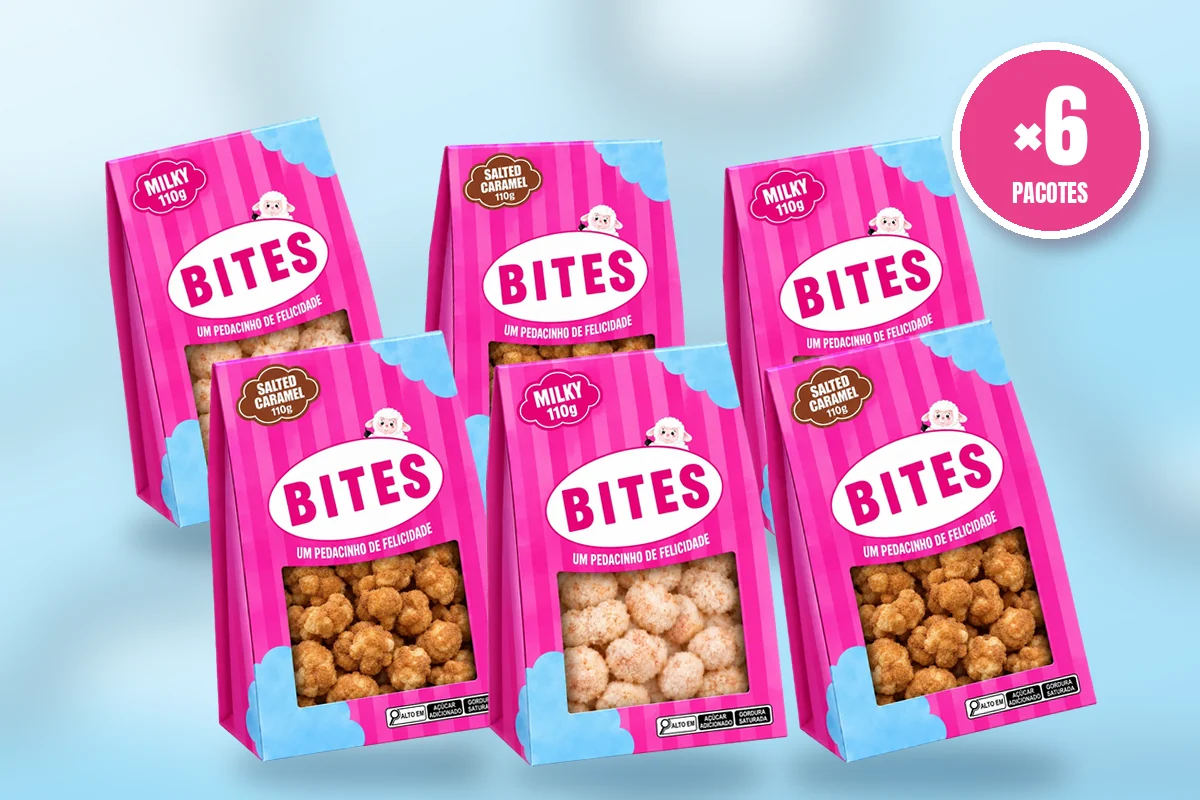
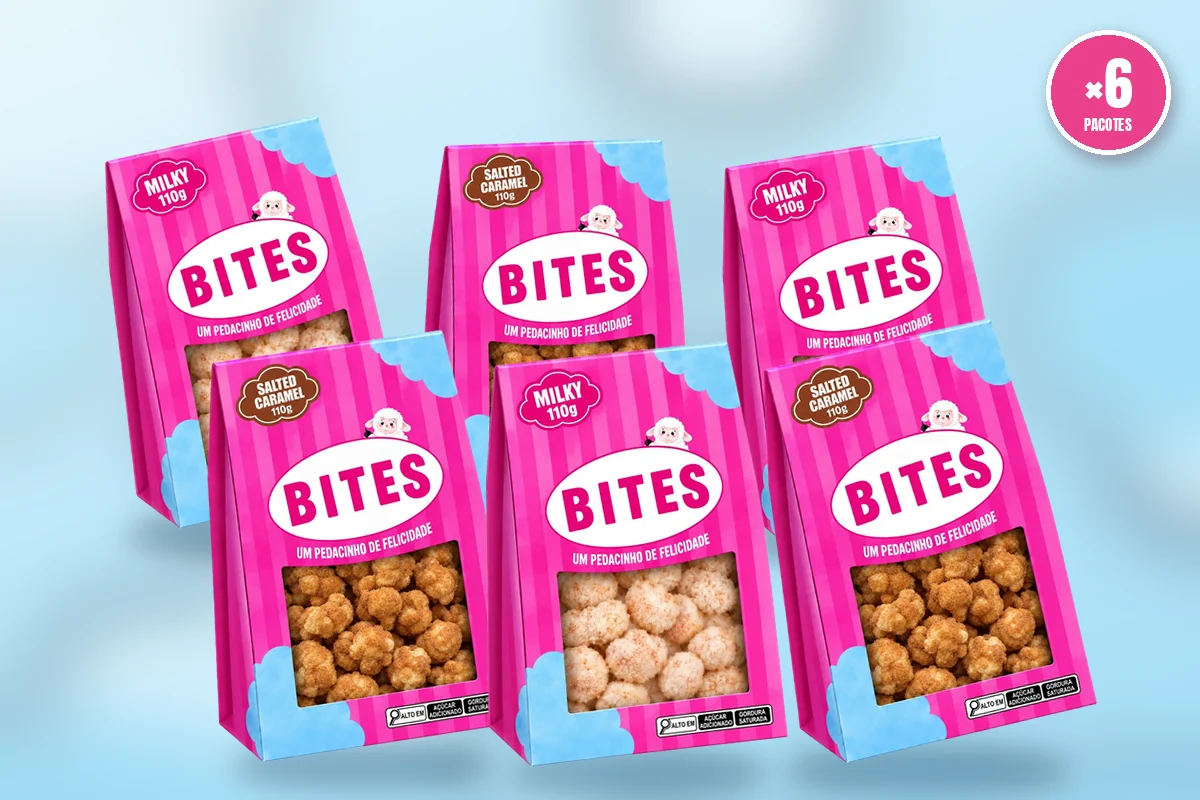
Combos: selo menor e os 10 pacotes do Pack centralizados
Claude-Session: https://claude.ai/code/session_01YLmJ7uevQKNQueWA5LqTBy

Changed region(s): [[0.7708, 0.0312, 0.9867, 0.3125]]

diff --git a/site.js b/site.js
@@ -116,11 +116,11 @@ const PONTOS = [
 // monta: quantos pacotes a pessoa escolhe na página do kit (sabores de SABORES_KIT)
 // foto: imagem do card (céu com nuvens, igual aos combos) · mini: pacote de frente pras miniaturas
 const PRODUTOS = [
-  {id:"milky", texto:["O <b>Milky</b> é a queridinha da casa.","Pipoca crocante coberta com <b>chocolate branco</b> e finalizada com <b>leite em pó</b>. Doce na medida e crocante até o último pedacinho.","Pacote de <b>110g</b>. Difícil é comer um só."], nome:"Milky", vem:"1× 110g", desc:"Pipoca crocante coberta com chocolate branco e leite em pó. A queridinha da casa.", preco:14.90, foto:"img/combos/milky.webp", mini:"img/giro/milky-frente.webp", reserva:"img/milky.jpg", giro:"milky", selo:"Mais pedido", camadas:["Pipoca crocante","Chocolate branco","Leite em pó"]},
-  {id:"caramel", texto:["O <b>Salted Caramel</b> é pra quem gosta do doce com personalidade.","Pipoca crocante coberta com <b>caramelo</b> e uma <b>pitada de sal</b> que deixa tudo mais viciante.","Pacote de <b>110g</b>. Doce, salgadinho e impossível de parar."], nome:"Salted Caramel", vem:"1× 110g", desc:"Caramelo com um toque de sal. Doce, crocante e difícil de parar.", preco:14.90, foto:"img/combos/caramel.webp", mini:"img/giro/caramel-frente.webp", reserva:"img/caramel.jpg", giro:"caramel", camadas:["Pipoca crocante","Caramelo","Pitada de sal"]},
-  {id:"duo", monta:2, texto:["O <b>BITES Duo</b> é o jeito mais fácil de começar.","São <b>2 pacotes de 110g</b> pra você montar do seu jeito: um de cada ou dois do seu favorito, entre <b>Milky</b> e <b>Salted Caramel</b>.","Monte o seu e descubra o seu vício."], nome:"BITES Duo", vem:"2× 110g", desc:"2 pacotes à sua escolha. Um de cada ou dois do favorito.", preco:27.90, de:29.80, pacotes:2, foto:"img/combos/duo.webp", camadas:["2 pacotes de 110g"]},
-  {id:"crew", monta:6, texto:["O <b>BITES Crew</b> é pra dividir com a galera… ou guardar tudo pra você.","São <b>6 pacotes de 110g</b> com os sabores que você escolher: <b>Milky</b> e <b>Salted Caramel</b>, na proporção que quiser.","Perfeito pra filme, estudo em grupo ou aquele rolê em casa."], nome:"BITES Crew", vem:"6× 110g", desc:"6 pacotes à sua escolha. Pra dividir com a galera.", preco:79.90, de:89.40, pacotes:6, foto:"img/combos/crew.webp", selo:"Mais vendido", camadas:["6 pacotes de 110g"]},
-  {id:"pack", monta:10, texto:["O <b>BITES Pack</b> é o estoque completo de quem já é viciado.","São <b>10 pacotes de 110g</b> pra montar do seu jeito, entre <b>Milky</b> e <b>Salted Caramel</b>.","O melhor preço por pacote. Pra nunca ficar sem."], nome:"BITES Pack", vem:"10× 110g", desc:"10 pacotes à sua escolha. O melhor preço por pacote.", preco:124.90, de:149.00, pacotes:10, foto:"img/combos/pack.webp", selo:"Melhor preço", camadas:["10 pacotes de 110g"]}
+  {id:"milky", texto:["O <b>Milky</b> é a queridinha da casa.","Pipoca crocante coberta com <b>chocolate branco</b> e finalizada com <b>leite em pó</b>. Doce na medida e crocante até o último pedacinho.","Pacote de <b>110g</b>. Difícil é comer um só."], nome:"Milky", vem:"1× 110g", desc:"Pipoca crocante coberta com chocolate branco e leite em pó. A queridinha da casa.", preco:14.90, foto:"img/combos/milky.webp?v=1790284624", mini:"img/giro/milky-frente.webp", reserva:"img/milky.jpg", giro:"milky", selo:"Mais pedido", camadas:["Pipoca crocante","Chocolate branco","Leite em pó"]},
+  {id:"caramel", texto:["O <b>Salted Caramel</b> é pra quem gosta do doce com personalidade.","Pipoca crocante coberta com <b>caramelo</b> e uma <b>pitada de sal</b> que deixa tudo mais viciante.","Pacote de <b>110g</b>. Doce, salgadinho e impossível de parar."], nome:"Salted Caramel", vem:"1× 110g", desc:"Caramelo com um toque de sal. Doce, crocante e difícil de parar.", preco:14.90, foto:"img/combos/caramel.webp?v=1790284624", mini:"img/giro/caramel-frente.webp", reserva:"img/caramel.jpg", giro:"caramel", camadas:["Pipoca crocante","Caramelo","Pitada de sal"]},
+  {id:"duo", monta:2, texto:["O <b>BITES Duo</b> é o jeito mais fácil de começar.","São <b>2 pacotes de 110g</b> pra você montar do seu jeito: um de cada ou dois do seu favorito, entre <b>Milky</b> e <b>Salted Caramel</b>.","Monte o seu e descubra o seu vício."], nome:"BITES Duo", vem:"2× 110g", desc:"2 pacotes à sua escolha. Um de cada ou dois do favorito.", preco:27.90, de:29.80, pacotes:2, foto:"img/combos/duo.webp?v=1790284624", camadas:["2 pacotes de 110g"]},
+  {id:"crew", monta:6, texto:["O <b>BITES Crew</b> é pra dividir com a galera… ou guardar tudo pra você.","São <b>6 pacotes de 110g</b> com os sabores que você escolher: <b>Milky</b> e <b>Salted Caramel</b>, na proporção que quiser.","Perfeito pra filme, estudo em grupo ou aquele rolê em casa."], nome:"BITES Crew", vem:"6× 110g", desc:"6 pacotes à sua escolha. Pra dividir com a galera.", preco:79.90, de:89.40, pacotes:6, foto:"img/combos/crew.webp?v=1790284624", selo:"Mais vendido", camadas:["6 pacotes de 110g"]},
+  {id:"pack", monta:10, texto:["O <b>BITES Pack</b> é o estoque completo de quem já é viciado.","São <b>10 pacotes de 110g</b> pra montar do seu jeito, entre <b>Milky</b> e <b>Salted Caramel</b>.","O melhor preço por pacote. Pra nunca ficar sem."], nome:"BITES Pack", vem:"10× 110g", desc:"10 pacotes à sua escolha. O melhor preço por pacote.", preco:124.90, de:149.00, pacotes:10, foto:"img/combos/pack.webp?v=1790284624", selo:"Melhor preço", camadas:["10 pacotes de 110g"]}
 ];
 const porId = Object.fromEntries(PRODUTOS.map(p => [p.id, p]));
 // sabores que dá pra escolher ao montar um kit

diff --git a/index.html b/index.html
@@ -285,6 +285,6 @@
 <div class="toast" id="toast" role="status" aria-live="polite"></div>
 
 <script src="sacola.js?v=1790284477"></script>
-<script src="site.js?v=1790284477"></script>
+<script src="site.js?v=1790284624"></script>
 </body>
 </html>
